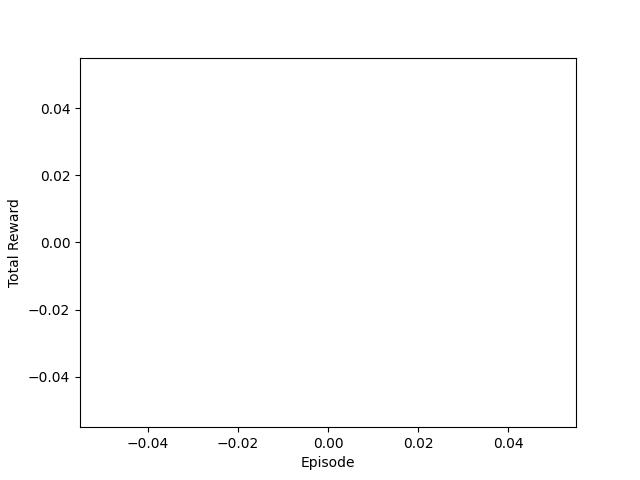
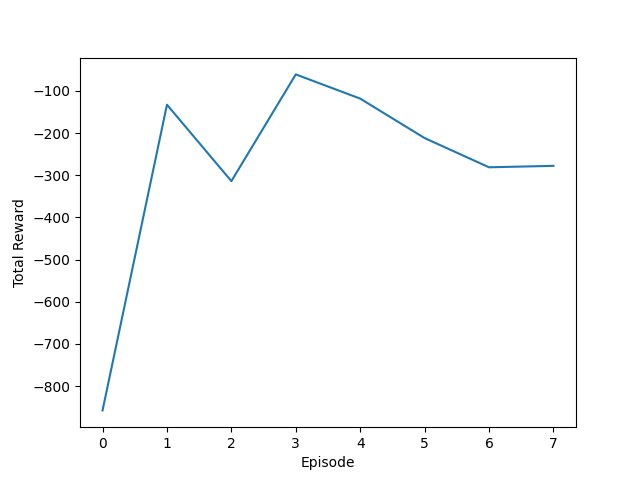
Added

diff --git a/architectures/DTQN.py b/architectures/DTQN.py
@@ -38,17 +38,18 @@ class ActionStateModel:
             num_heads=8,
             key_dim=256,
             num_actions = self.action_dim,
-            num_layers=2
+            num_layers=2,
+            dff=256
         )
 
-    def create_model(self, input_shape, num_heads, key_dim, num_actions, num_layers=4):
+    def create_model(self, input_shape, num_heads, key_dim, num_actions, dff, num_layers):
         # Input layer
         
         inputs = Input(shape=input_shape)
 
         # project the input at each time step to a number
-        embedded_inputs1 = Dense(units=key_dim // num_heads, activation='tanh')(inputs)
-        embedded_inputs2 = Dense(units=key_dim , activation='tanh')(embedded_inputs1)
+        embedded_inputs1 = Dense(units=key_dim // num_heads, activation='relu')(inputs)
+        embedded_inputs2 = Dense(units=key_dim)(embedded_inputs1)
         
         # Positional Encoding
         x = embedded_inputs2 + positional_encoding(input_shape[0], key_dim)
@@ -62,12 +63,11 @@ class ActionStateModel:
             x = LayerNormalization()(x + attention_output)
 
             # send it to a feed forward network
-            ffn1 = Dense(units=32, activation='relu')(x)
-            ffn2 = Dense(units=32, activation='tanh')(ffn1)
-            ffn = Dense(units=key_dim, activation='relu')(ffn2)
+            ffn1 = Dense(units=dff, activation='relu')(x)
+            ffn2 = Dense(units=dff, activation=None)(ffn1)
 
             # Normalize the ffn output
-            x = LayerNormalization()(x + ffn)
+            x = LayerNormalization()(x + ffn2)
         
         # Output layer
         output = Dense(units=num_actions, activation=None)(x)

diff --git a/args.py b/args.py
@@ -2,7 +2,7 @@ import argparse
 
 parser = argparse.ArgumentParser()
 parser.add_argument('--model', type=str, default='DTQN')
-parser.add_argument('--env', type=str, default='Tiger')
+parser.add_argument('--env', type=str, default='BoxPushing')
 parser.add_argument('--max_episodes', type=int, default=2000)
 parser.add_argument('--gamma', type=float, default=0.95)
 parser.add_argument('--lr', type=float, default=5e-5)
